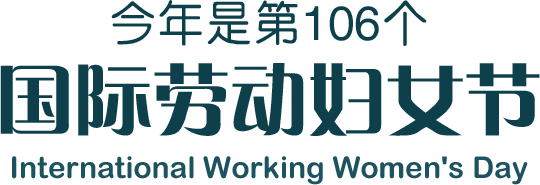
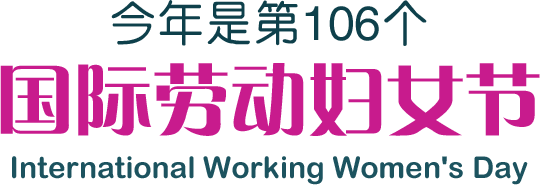
添加背景音乐及修改文案

Changed region(s): [[0.0, 0.3243, 1.0, 0.7568]]

diff --git a/views/header.html b/views/header.html
@@ -21,18 +21,18 @@
     <title>{{title}}</title>
     <script type="text/javascript">
         /*
-            # 按照宽高比例设定html字体, width=device-width initial-scale=1版
-            # @pargam win 窗口window对象
-            # @pargam option{
-              designWidth: 设计稿宽度，必须
-              designHeight: 设计稿高度，不传的话则比例按照宽度来计算，可选
-              designFontSize: 设计稿宽高下用于计算的字体大小，默认20，可选
-              callback: 字体计算之后的回调函数，可选
-            }
-            # return Boolean;
-            # xiaoweili@tencent.com
-            # ps:请尽量第一时间运行此js计算字体
-        */
+                    # 按照宽高比例设定html字体, width=device-width initial-scale=1版
+                    # @pargam win 窗口window对象
+                    # @pargam option{
+                      designWidth: 设计稿宽度，必须
+                      designHeight: 设计稿高度，不传的话则比例按照宽度来计算，可选
+                      designFontSize: 设计稿宽高下用于计算的字体大小，默认20，可选
+                      callback: 字体计算之后的回调函数，可选
+                    }
+                    # return Boolean;
+                    # xiaoweili@tencent.com
+                    # ps:请尽量第一时间运行此js计算字体
+                */
         ! function(win, option) {
             var count = 0,
                 designWidth = option.designWidth,
@@ -85,6 +85,10 @@
     <script src="/js/jquery-1.11.1.min.js"></script>
     <script src="/js/jquery.onepage-scroll.js"></script>
     <script src="/js/jquery.mobile.custom.min.js"></script>
+    <script src="/js/common.js"></script>
 </head>
 
 <body>
+    <audio autoplay loop id="bgmusic">
+        <source src="http://7xiqx7.com1.z0.glb.clouddn.com/bgmusic.mp3?ver=1" type="audio/mpeg">
+    </audio>

diff --git a/views/index.html b/views/index.html
@@ -1,7 +1,7 @@
 {{include './header'}}
 <script src="/js/core.js"></script>
 
-<div class="music-toggle music-toggle_on"></div>
+<div id="bgmusic_toggle" class="music-toggle music-toggle_on"></div>
 <div id="pages">
 
     <div class="content" data-id="0">
@@ -9,7 +9,7 @@
         <div class="text-container container_style1">
             <p>“妇女是物质文明和精神文明的创造者，是推动社会发展和进步的重要力量。没有妇女，就没有人类，就没有社会。”
             </p>
-            <p>——习近平总书记谈妇女</p>
+            <p>——习主席全球妇女峰会讲话</p>
         </div>
         <a href="#2" data-index="2" class="btn swipe"></a>
     </div>
@@ -18,7 +18,7 @@
     <div class="content" data-id="1">
         <div class="logo"></div>
         <div class="text-container container_style2">
-            湖北省总工会女职工委员会为您收集到<span>{{count}}</span>份祝福，祝您节日快乐，永远美丽！
+            <span class="text">湖北省总工会女职工委员会为您收集到</span><span class="count">{{count}}</span>份祝福，祝您节日快乐，永远美丽！
         </div>
         <a href="#3" data-index="3" class="btn swipe"></a>
     </div>
@@ -74,7 +74,7 @@
 </div>
 <div class="share share_off">
     <div class="share-cover"></div>
-    <div class="share-content"></div>
+    <a href="https://mp.weixin.qq.com/s?__biz=MzA5NjU4NTU4MQ==&mid=400260155&idx=2&sn=eccdbb5d99a1b6efab92ab678cef7cd4&scene=1&srcid=03078moJv9NKxL6zz1or8LkU&key=710a5d99946419d9f59a623b5233f30c039ed8005dd0b8cd4f1959e8490fbc522e1e35f6b21fcbcb06674664b08d5cee&ascene=0&uin=NTY1NDY1&devicetype=iMac+MacBookAir6%2C2+OSX+OSX+10.11.3+build(15D21)&version=11020201&pass_ticket=hMIYfYIL%2FLlDXNBlGgiebkXbHLnuO7ktkKYgOcIVA4Q%3D" class="share-content"></a>
 </div>
 
 

diff --git a/less/main.less b/less/main.less
@@ -18,6 +18,7 @@ body {
     top: 3rem;
     width: 3rem;
     height: 3rem;
+    z-index: 1000;
     -webkit-transform: translate(-50%, -50%);
     transform: translate(-50%, -50%);
     &.music-toggle_on {
@@ -95,6 +96,7 @@ body {
             font-size: 1.6rem;
             width: 530 / 20rem;
             height: 265 / 20rem;
+            line-height: 1.1em;
             p {
                 text-indent: 3.2rem;
             }
@@ -110,7 +112,10 @@ body {
             color: #657680;
             padding: 70 / 20rem 0.8rem;
             text-align: center;
-            span {
+            .text {
+                color: #ff9000;
+            }
+            .count {
                 display: block;
                 font-weight: 700;
                 color: #c81b8d;
@@ -372,11 +377,11 @@ body {
         position: absolute;
         -webkit-transform: translate(-50%, -50%);
         transform: translate(-50%, -50%);
-        width: 3rem;
-        height: 2rem;
+        width: 6rem;
+        height: 3rem;
         background: url("../images/swipe.png") no-repeat;
         background-size: contain;
-        bottom: 15%;
+        bottom: 5%;
         left: 50%;
     }
 }

diff --git a/public/js/common.js b/public/js/common.js
@@ -1,0 +1,18 @@
+$(document).on('ready', function(){
+    $('#bgmusic_toggle').on('click', function(){
+        if($(this).hasClass('music-toggle_on')){
+            $(this).removeClass('music-toggle_on');
+            $(this).addClass('music-toggle_off');
+            document.getElementById('bgmusic').pause();
+        }else{
+            $(this).removeClass('music-toggle_off');
+            $(this).addClass('music-toggle_on');
+            document.getElementById('bgmusic').play();
+        }
+    });
+    document.getElementById('bgmusic').play();
+    //必须在微信Weixin JSAPI的WeixinJSBridgeReady才能生效
+    document.addEventListener("WeixinJSBridgeReady", function () {
+        document.getElementById('bgmusic').play();
+    }, false);
+})
